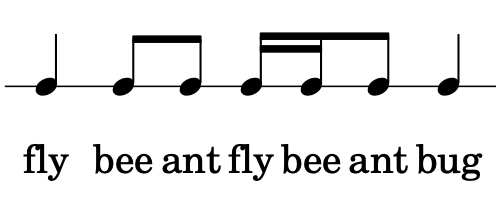
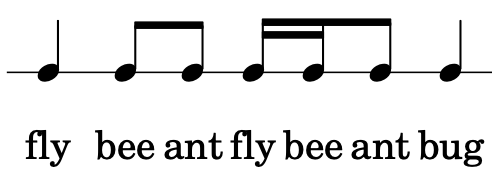
a

Changed region(s): [[0.0, 0.0806, 1.0, 0.457], [0.1829, 0.672, 1.0, 0.914], [0.0305, 0.672, 0.1524, 0.914]]

diff --git a/test/test.js b/test/test.js
@@ -55,12 +55,12 @@ describe('#parse()', () => {
 
     it('should throw an error when the ratio numerator does not match the number of data tokens', () => {
       const notations = [
-        { index: 1, numTokensChecked: 5, numTokens: 4, notation: '(5:1 a b c d)' },
-        { index: 8, numTokensChecked: 3, numTokens: 4, notation: '(a a a (3:1 a a a a))' }
+        { index: 1, numTokensToMatch: 5, numTokens: 4, notation: '(5:1 a b c d)' },
+        { index: 8, numTokensToMatch: 3, numTokens: 4, notation: '(a a a (3:1 a a a a))' }
       ]
       notations.forEach((e) => {
         expect(f(e.notation)).to.throw('The notation ratio numerator at index ' +
-          e.index + ' checks for ' + e.numTokensChecked + ' data tokens, but ' +
+          e.index + ' checks for ' + e.numTokensToMatch + ' data tokens, but ' +
           e.numTokens + ' were found.')
       })
     })

diff --git a/README.md b/README.md
@@ -15,16 +15,7 @@ NTN is the brainchild of Luc St-Louis.
 
 2) ![notation example](example_1.png)
 
-
 ## Example 1
-
-if `a` = note, and `.` = rest, the following encodings are similar:
-
-1) `((2 a a (a . (a a))) a (a (a a)))`
-
-2) ![notation example](example_1.png)
-
-## Example 2
 
 In this example, animal words are placed in time.
 
@@ -32,29 +23,19 @@ In this example, animal words are placed in time.
 
 2) ![notation example](examples/example_1.png)
 
-
-In this example, animal words are placed in time.
-
-1) `(fly (bee ant) ((fly bee) ant) bug)`
-
-2) ![notation example](examples/example_3.png)
-
-
-## Example 3
+## Example 2
 
 In this example, animal words are placed in time.
 
 1) `()`
 
-2) ![notation example](example_3.png)
+2) ![notation example](examples/example_2.png)
 
-## Example 4
 
-In this example, animal words are placed in time.
 
-1) `((2 a (2 a a a a a)) a)`
 
-2) ![notation example](example_4.png)
+
+
 
 ## Node Repository
 

diff --git a/examples/README.md b/examples/README.md
@@ -1,0 +1,30 @@
+# Example 1
+
+% LilyBin
+\score {
+  {
+    \new RhythmicStaff {
+      \once \override Staff.TimeSignature #'stencil = ##f
+	    \time 4/4
+	    c4 c8 c c16 c c8 c4
+    }
+	  \addlyrics {
+      fly bee ant fly bee ant bug
+    }
+  }
+  \layout{}
+}
+
+# Example 2
+
+% LilyBin
+\score {
+  {
+    \new RhythmicStaff {
+      \once \override Staff.TimeSignature #'stencil = ##f
+	    \time 5/4
+	    \tuplet 5/4 { c4 \tuplet 2/3 { c \tuplet 3/2 { c8 c c } } r c } c c
+    }
+  }
+  \layout{}
+}
